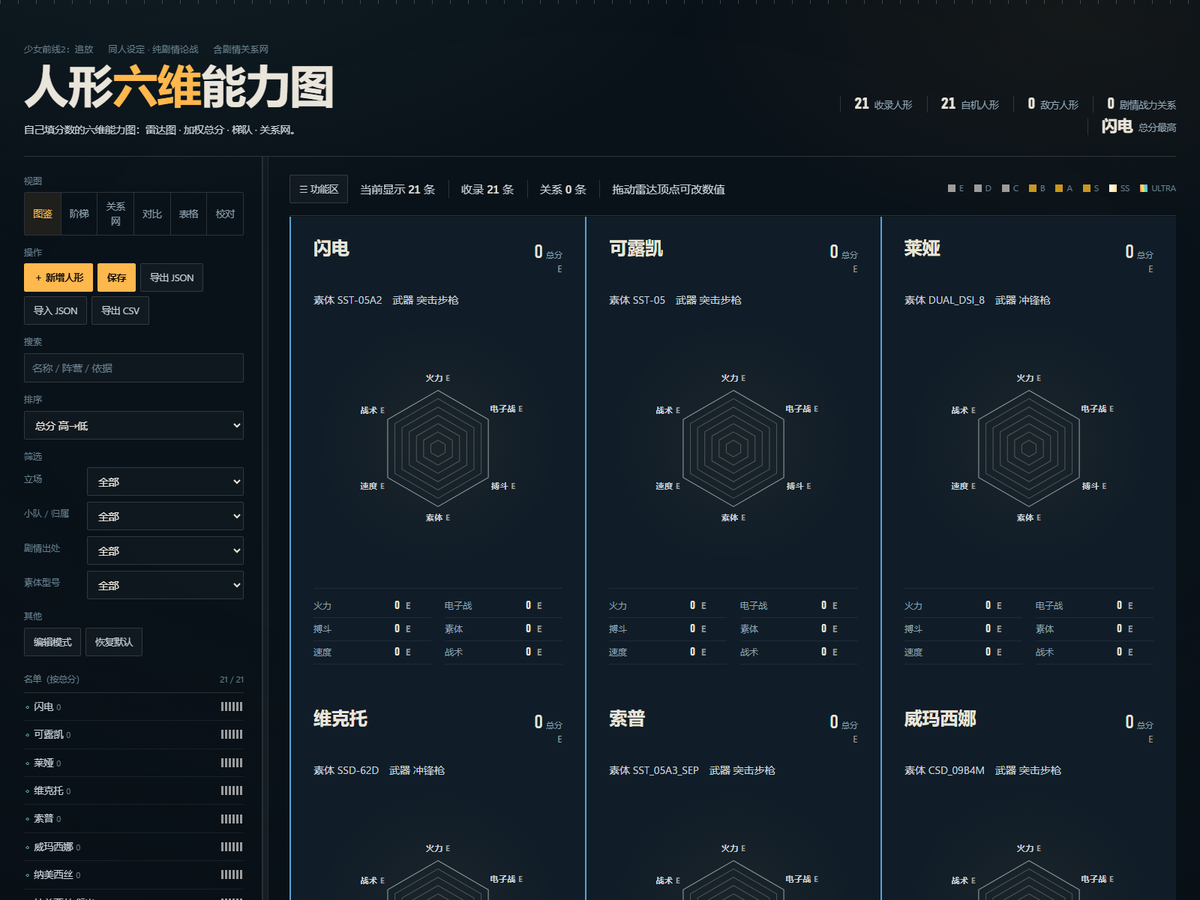
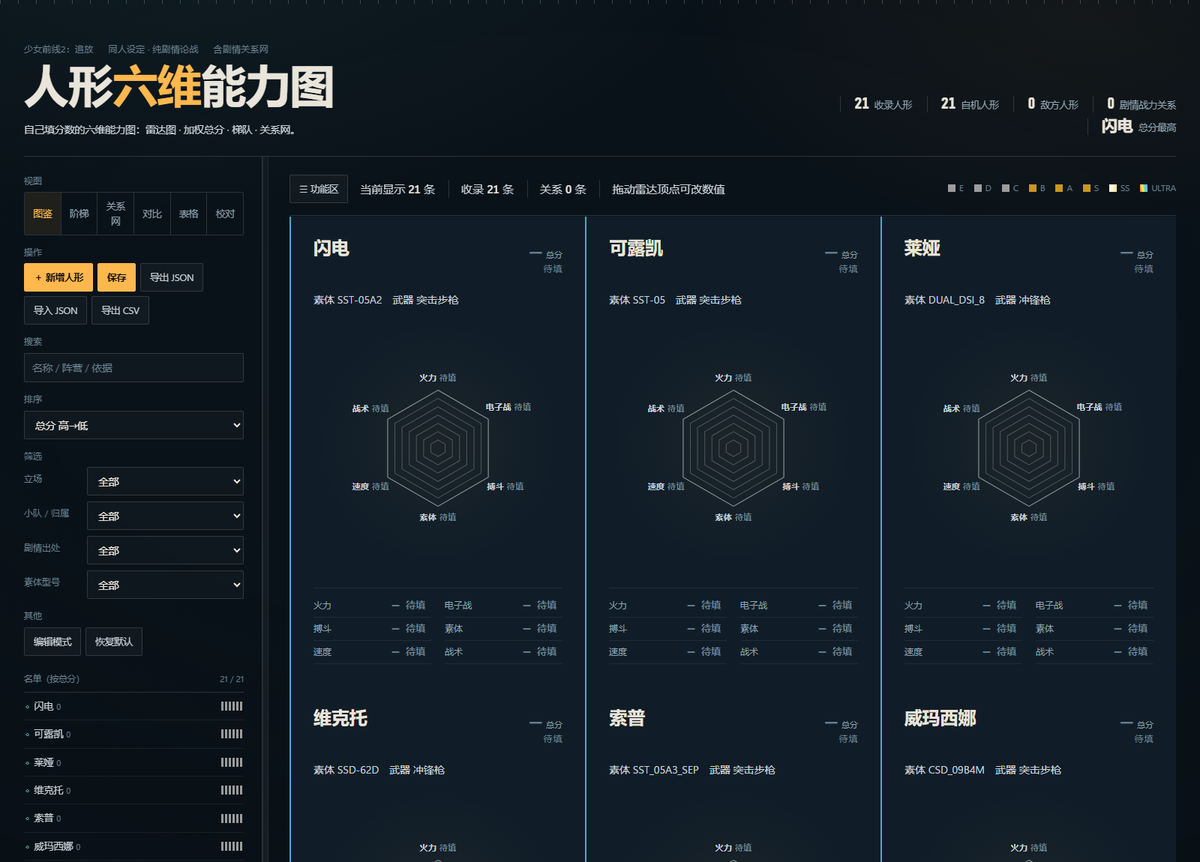
fix(editor): 「对比图形失效」实为两边都是空卡；空卡不再进对比/平均/排名，卡面显示「— 待填」
- 现象：编辑弹窗的对比图只剩网格、没有多边形。原因不是渲染坏了，而是对比下拉里全是刚内置的空卡（六维全 0），两张多边形都缩成中心一个点
- 新增 isBlank(e)（六维全 0）：cmpOptions() 排除空卡，全空时提示「暂无可对比对象」；__avg 与 dimRankInfo 也只在非空卡里统计
- 空卡卡面：总分「—」、梯队与雷达档位字「待填」、账本每维「— 待填」；ladderHTML 空卡不入梯队
- 实测：21 张空卡全显示待填；填两张数值后对比下拉变为（不对比）/全体平均（2 人）/闪电（88.9 S）/可露凯（77.9 A），选对比后 2 个多边形 + 图例正常
- 19 PASS / 0 FAIL；更新 README 预览图与进展摘要

diff --git a/少前2_人形六维能力图.html b/少前2_人形六维能力图.html
@@ -701,10 +701,11 @@ function radar(series, size, opt){
   }
   /* 标签：每个维度一个「维度名 + 档位」，位置贴着该维基准半径——实时跟着图面积走
      双形态卡每态各出一套（放在各自 <g> 里），切换时由 CSS 显隐，档位文字会跟着换 */
+  var blankChart = opt.blank === true;
   function emitLabels(vals, letters){
     for (var i4=0;i4<6;i4++){
       var vI = vals ? vals[i4] : 0;
-      var gI = letters ? letters[i4] : letterOf(vI);
+      var gI = blankChart ? '待填' : (letters ? letters[i4] : letterOf(vI));
       if (opt.grades === false) gI = '';
       var wI = labelWidth(DSHORT[i4], gI);
       var angI = -Math.PI/2 + i4*Math.PI/3;
@@ -716,9 +717,10 @@ function radar(series, size, opt){
       var pn = polar(cx,cy,lrI,i4);
       var an = 'middle';
       var ts = '<tspan style="fill:'+THEME.nameText+';stroke-width:'+LAYOUT.nameStroke+'px">'+DSHORT[i4]+'</tspan>';
-      if (gI) ts += '<tspan fill="'+gradeFill(gI, gpre)+'" style="font-size:'+(gI==='ULTRA'?LAYOUT.ultraSize:LAYOUT.gradeSize)+'px;font-weight:700;stroke-width:'+
+      if (gI) ts += '<tspan'+(blankChart ? '' : ' fill="'+gradeFill(gI, gpre)+'"')+' style="font-size:'+
+        (blankChart ? LAYOUT.gradeSize : (gI==='ULTRA'?LAYOUT.ultraSize:LAYOUT.gradeSize))+'px;font-weight:700;stroke-width:'+
         (gI==='ULTRA'?LAYOUT.ultraStroke:LAYOUT.gradeStroke)+'px'+
-        (gI==='SS' ? ';stroke:#f0c53f' : '')+'"> '+gI+'</tspan>';   /* SS 用金色外描边＝发亮，其余用暗描边 */
+        (blankChart ? ';fill:var(--paper-faint)' : (gI==='SS' ? ';stroke:#f0c53f' : ''))+'"> '+gI+'</tspan>';
       parts.push('<text class="albl" x="'+f1(pn[0])+'" y="'+f1(pn[1]+3)+'" text-anchor="'+an+'" style="font-size:'+LAYOUT.nameSize+'px;font-weight:'+LAYOUT.nameWeight+'">'+ts+'</text>');
     }
   }
@@ -753,10 +755,14 @@ function filtered(){
 }
 
 /* ---------- 卡片 ---------- */
+/* 空卡＝六维全是 0（刚加进去还没填数值的人形）：不参与对比、平均、排名，卡上显示「待填」 */
+function isBlank(e){ if (!e || !e.s) return true; for (var i=0;i<6;i++) if (Number(e.s[i]) !== 0) return false; return (e.s.length > 0); }
 function ledgerHTML(e){
+  var blank = isBlank(e);
   return DIMS.map(function(dim,i){
     var L = dimLetter(e, i);
     var off = !!(e.use && e.use[i] === false);
+    if (blank) return '<div class="led"><span>'+DSHORT[i]+'</span><b class="num" style="color:var(--paper-faint)">—</b><b style="color:var(--paper-faint);font-size:13px">待填</b></div>';
     return '<div class="led"'+(off?' style="opacity:.42"':'')+'><span>'+DSHORT[i]+'</span><b class="num">'+e.s[i]+'</b><b style="'+gradeStyle(L)+';font-size:13px">'+L+'</b>'+(off?'<small style="color:#c9a15a">不计</small>':'')+'</div>';
   }).join('');
 }
@@ -772,11 +778,13 @@ function cardHTML(e, idx, opts){
     +' style="'+(fv?'--acc:'+acc+';':'')+'animation-delay:'+Math.min(idx,26)*22+'ms">'+
     '<div class="ptop"><div><h3 class="pname">'+esc(e.name)+'</h3></div>'+
     '<div style="text-align:right">'+(fv?fvTotalsHTML(V, FVU):
-      '<div class="rankno">'+(e.total!=null?e.total:'—')+'<small>总分</small></div>'+
-      '<div class="tier" style="'+gradeStyle(e.tier)+'">'+e.tier+'</div>')+'</div></div>'+
+      (isBlank(e) ? '<div class="rankno" style="color:var(--paper-faint)">—<small>总分</small></div>'+
+                     '<div class="tier" style="color:var(--paper-faint)">待填</div>'
+                  : '<div class="rankno">'+(e.total!=null?e.total:'—')+'<small>总分</small></div>'+
+                    '<div class="tier" style="'+gradeStyle(e.tier)+'">'+e.tier+'</div>'))+'</div></div>'+
     '<div class="frm">素体 '+(e.frame?esc(e.frame):'无型号')+(e.weapon?'　武器 '+esc(e.weapon):'')+'</div>'+
     (fv?fvBarHTML(fv):'')+
-    '<div class="chart">'+radar(series, LAYOUT.sizeCard, fv?{ gradesAll:true }: { drag:true })+'</div>'+
+    '<div class="chart">'+radar(series, LAYOUT.sizeCard, fv?{ gradesAll:true }: { drag:true, blank:isBlank(e) })+'</div>'+
     '<div class="ledger'+(fv?' dual':'')+'">'+(fv?fvLedgerHTML(V):ledgerHTML(e))+'</div>'+
     (state.edit ? '<div class="pfoot"><div class="acts">'+
         '<button class="btn" data-act="edit" data-id="'+e.id+'">编辑</button>'+
@@ -827,7 +835,8 @@ function renderScale(){
 
 /* ---------- 阶梯 ---------- */
 function ladderHTML(){
-  var list = state.entries.slice().sort(function(a,b){ return b.rank-a.rank; });
+  var blanks = state.entries.filter(function(e){ return isBlank(e); });
+  var list = state.entries.filter(function(e){ return !isBlank(e); }).sort(function(a,b){ return b.rank-a.rank; });
   var tiers = ['ULTRA','SS','S','A','B','C','D','E'];
   var h = '<div class="ladder">';
   tiers.forEach(function(t){
@@ -1250,13 +1259,15 @@ function renderMChart2(){
 /* ---------- 编辑时的实时对比：左边画草稿，右边可选一个参照 ---------- */
 var mCmpId = '';
 function cmpOptions(){
-  return '<option value="">（不对比）</option><option value="__avg">全体平均</option>' +
-    state.entries.slice().sort(function(a,b){ return b.total - a.total; }).map(function(e){
+  var real = state.entries.filter(function(e){ return !isBlank(e); });
+  if (!real.length) return '<option value="">（暂无可对比对象：先给某个人形填数值）</option>';
+  return '<option value="">（不对比）</option><option value="__avg">全体平均（'+real.length+' 人）</option>' +
+    real.sort(function(a,b){ return b.total - a.total; }).map(function(e){
       return '<option value="'+e.id+'">'+esc(e.name)+'（'+e.total+' '+e.tier+'）</option>';
     }).join('');
 }
 function dimRankInfo(v, i){
-  var vals = state.entries.map(function(e){ return e.s[i]; }).sort(function(a,b){ return b - a; });
+  var vals = state.entries.filter(function(e){ return !isBlank(e); }).map(function(e){ return e.s[i]; }).sort(function(a,b){ return b - a; });
   return '第 ' + (vals.filter(function(x){ return x > v; }).length + 1) + '/' + vals.length + ' 高';
 }
 function renderMChart(){
@@ -1264,7 +1275,8 @@ function renderMChart(){
   var draft = { vals: mS.slice(), color: '#c8455f', letters: mS.map(letterOf) };
   var ref = null, refName = '';
   if (mCmpId === '__avg'){
-    var av = DIMS.map(function(_,i){ return Math.round(state.entries.reduce(function(a,e){ return a + e.s[i]; },0) / Math.max(1,state.entries.length)); });
+    var real = state.entries.filter(function(e){ return !isBlank(e); });
+    var av = DIMS.map(function(_,i){ return Math.round(real.reduce(function(a,e){ return a + e.s[i]; },0) / Math.max(1,real.length)); });
     ref = { vals: av, color: '#5fb3b0' }; refName = '全体平均';
   } else if (mCmpId){
     var e = byId(mCmpId);

diff --git a/_work/进展摘要.md b/_work/进展摘要.md
@@ -69,6 +69,16 @@
 
 数据源＝`_work/archive/2026-10-10_完整73人形` 的元数据（归属/素体/武器照抄，数值留空）。`mergeBuiltins()` 改为 **id + 名字双去重**，所以你自己已经建过的人形不会被覆盖或重复。
 
+## 2.11 空卡（待填）语义（2026-10-10）
+
+**症状**：编辑模式里「对比图形」看着失效——其实两边都是刚内置的空卡（六维全 0），多边形缩成一个点，图上只剩网格。
+
+**修法**：新增 `isBlank(e)`（六维全 0 即空卡）：
+- `cmpOptions()` 把空卡排除在「对比对象」之外；全为空时提示「暂无可对比对象：先给某个人形填数值」；
+- 「全体平均」`__avg` 与 `dimRankInfo()` 的排名同样只在**非空卡**里统计；
+- 空卡卡面：总分显示 `—`、梯队与雷达档位字显示**待填**（弱色），账本每维也是 `— 待填`；
+- `ladderHTML()` 空卡不进梯队分组。
+
 ## 3. 关键约定（别踩）
 
 - **权重必须按 DIMS 索引取**：`WEIGHTS` 与 `DIMS` 必须同序（自检 14 盯着）。
